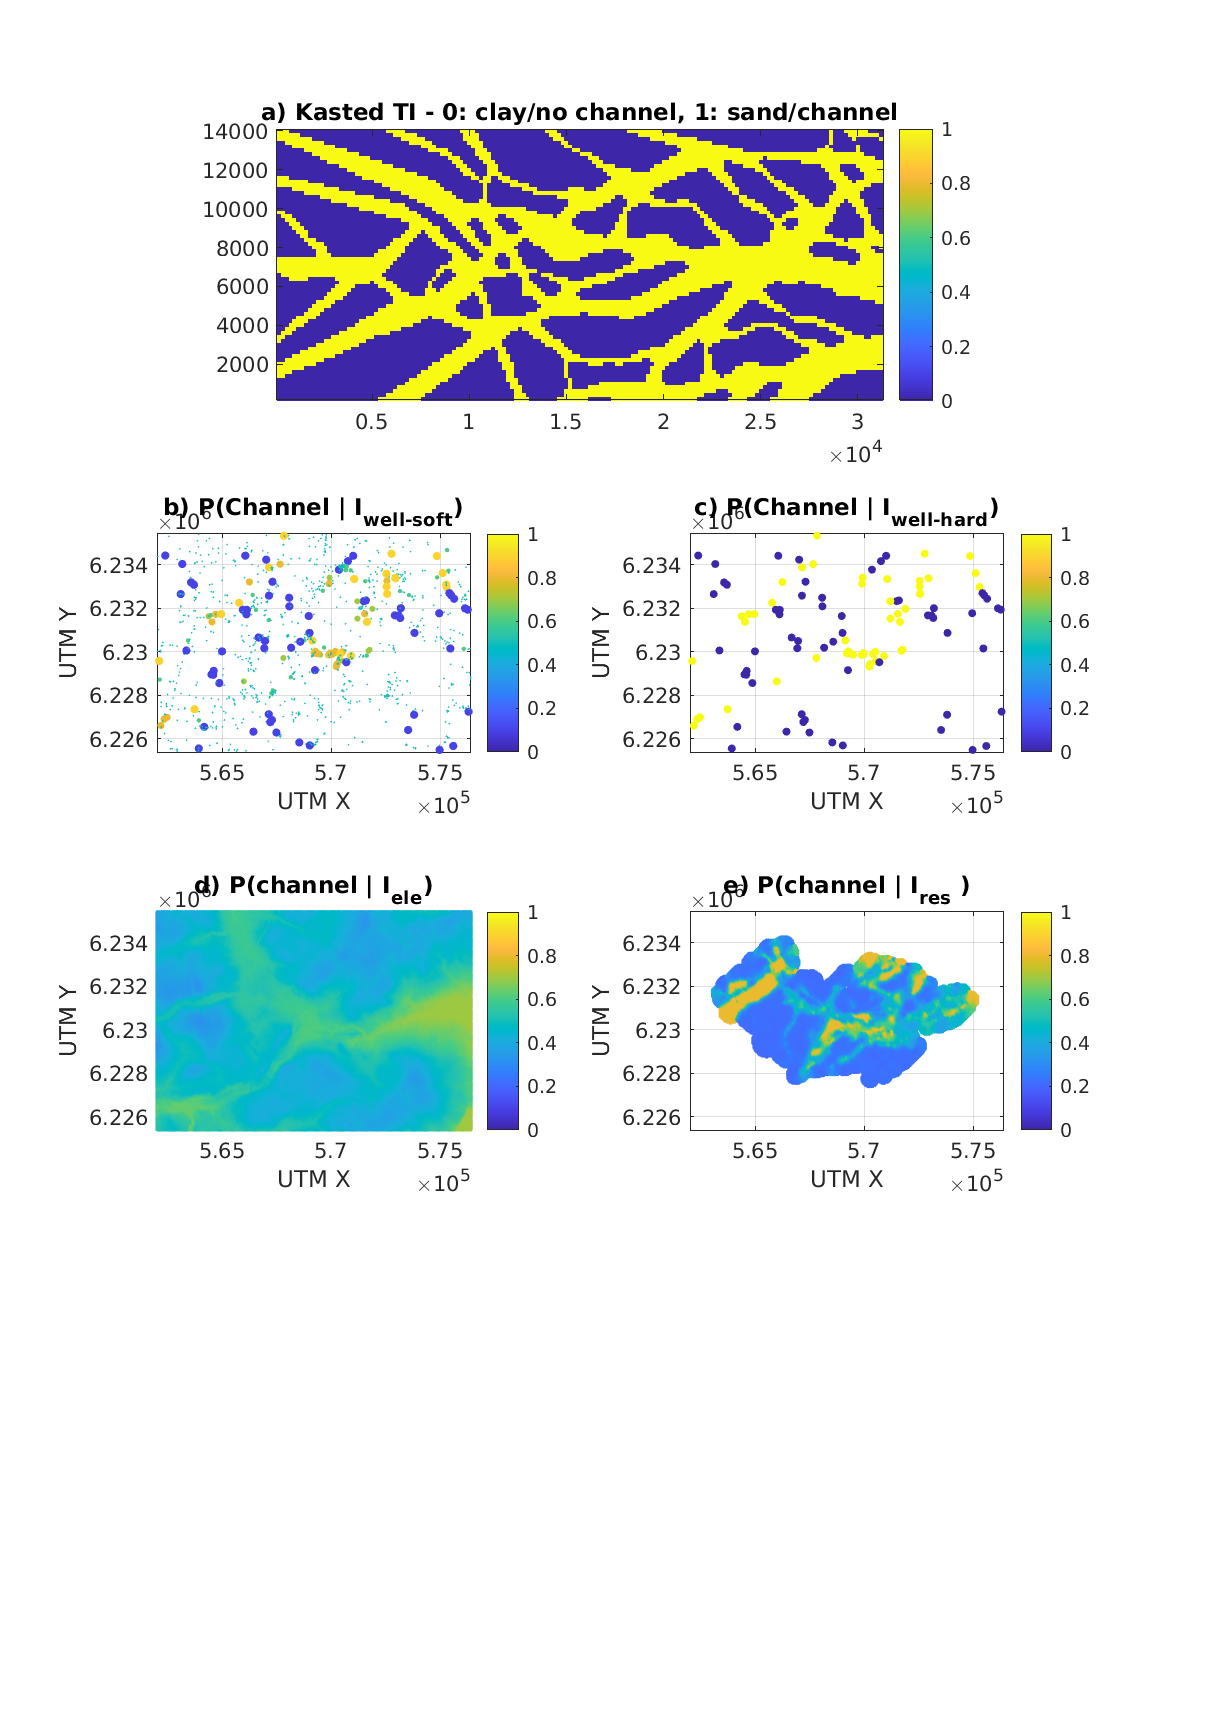
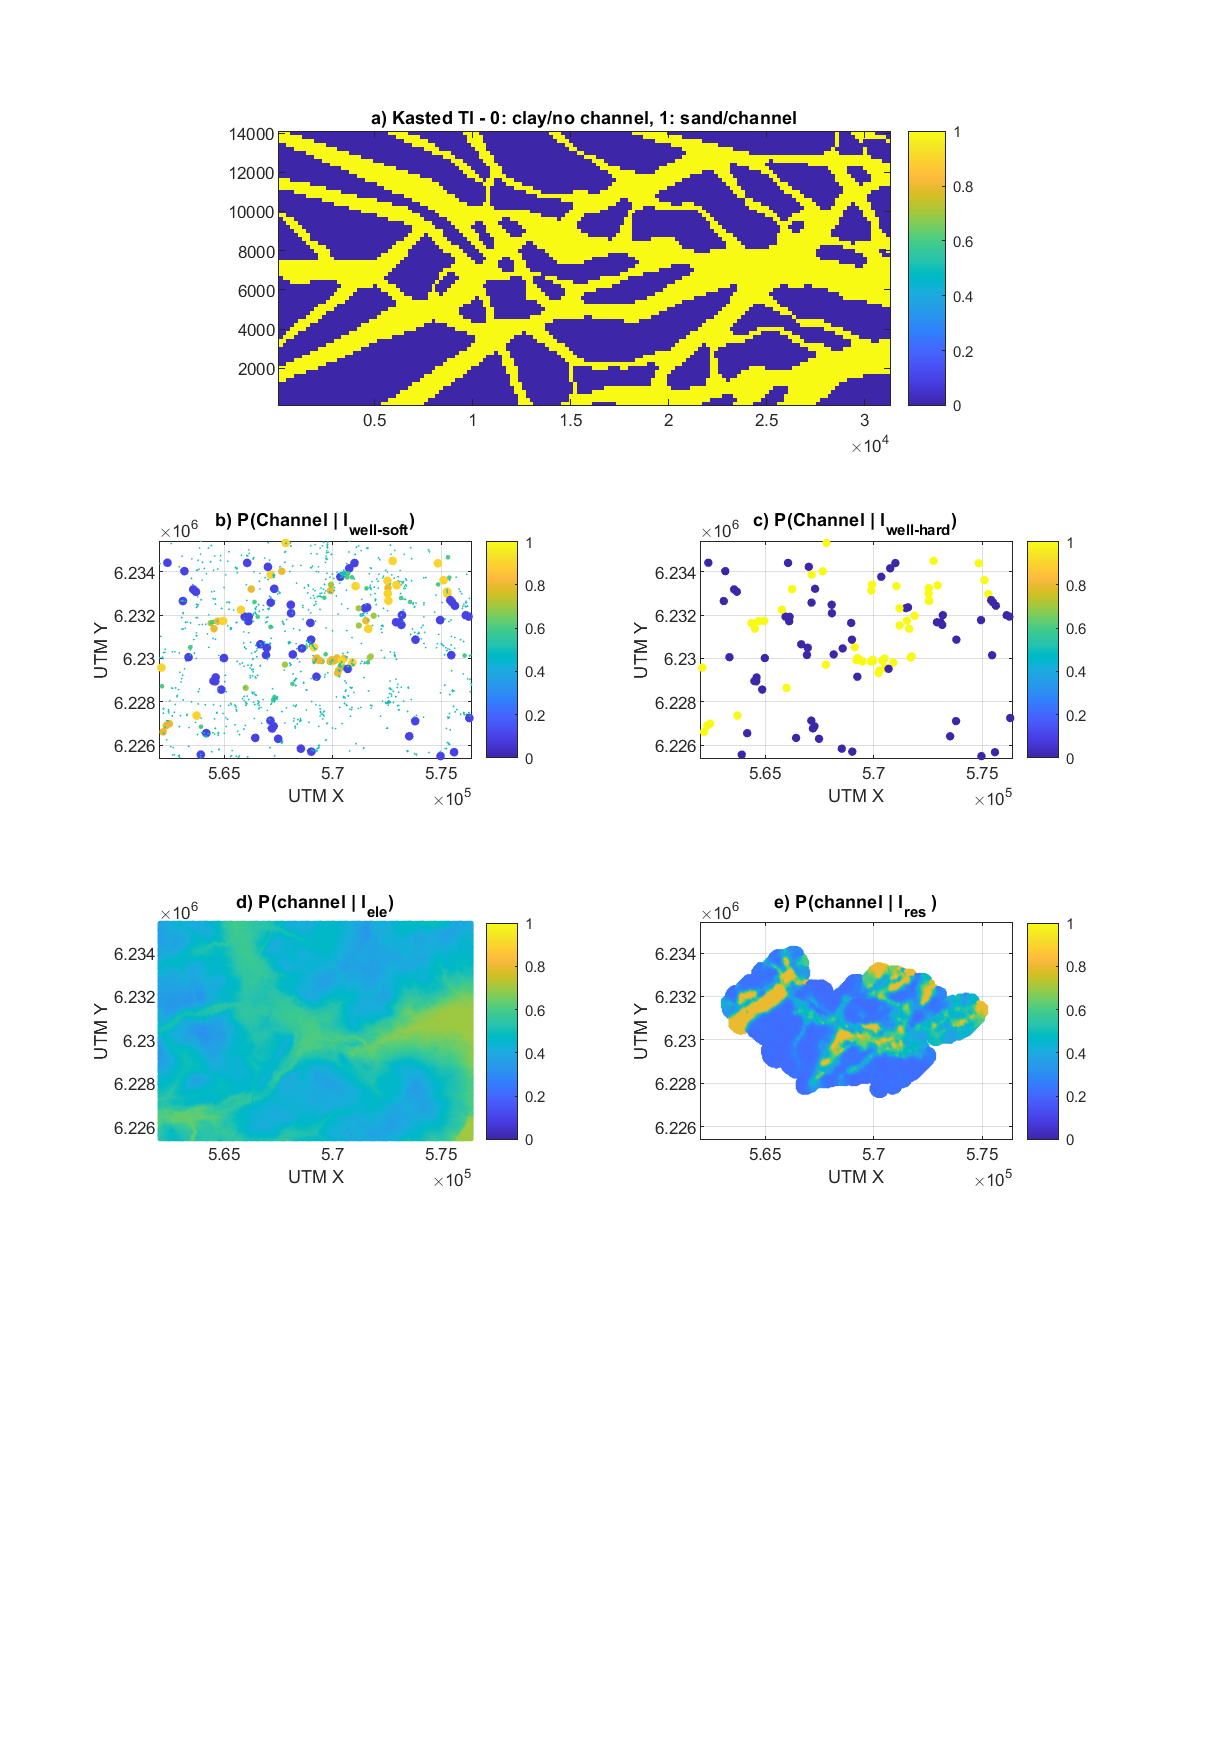
Consistent Kasted data

diff --git a/data/kasted/kasted_mps_consistency.m b/data/kasted/kasted_mps_consistency.m
@@ -2,7 +2,7 @@
 clear all;close all;
 doPlot=1;
 n_max_ite=100000;1000000;
-n_max_cpdf_count= 1000;2000;
+n_max_cpdf_count= 10000000; 1000;2000;
 n_real = n_max_cpdf_count;1000;
 
 n_conds = [1,2,4,9,25,36, 49];
@@ -93,14 +93,15 @@ Oc.n_max_cpdf_count=n_max_cpdf_count;;
 
 d_hard = d_well_hard;
 
-i_not = [ 20    24    39    78    87];
+i_not = [   108    62    60    79    89];
 i_ok = setxor(1:size(d_hard,1),i_not)
 d_hard = d_hard(i_ok,:)
 
-%i_not = [8    20    25    74    79];
-%i_ok = setxor(1:size(d_hard,1),i_not)
-%d_hard = d_hard(i_ok,:)
+i_not = [35];
+i_ok = setxor(1:size(d_hard,1),i_not)
+d_hard = d_hard(i_ok,:)
 
+write_eas('kasted_hard_well_conistent.dat',d_hard)
 
 n_use = size(d_hard,1);
 %rng(1);
@@ -178,10 +179,11 @@ subplot(2,2,4);
 scatter(d_hard(:,1),d_hard(:,2),50,KL_dis,'filled');
 hold on
 for i=1:n_hard
-    text(d_hard(i,1),d_hard(i,2),sprintf('%d',i))
+    text(d_hard(i,1),d_hard(i,2),sprintf('%d',i),'HOrizontalAlignment','center')
 end
 hold off
 axis image
-colormap(gca,flipud(copper))
+colormap(gca,cmap_geosoft)
+%colormap(gca,flipud(copper))
 colorbar
             
